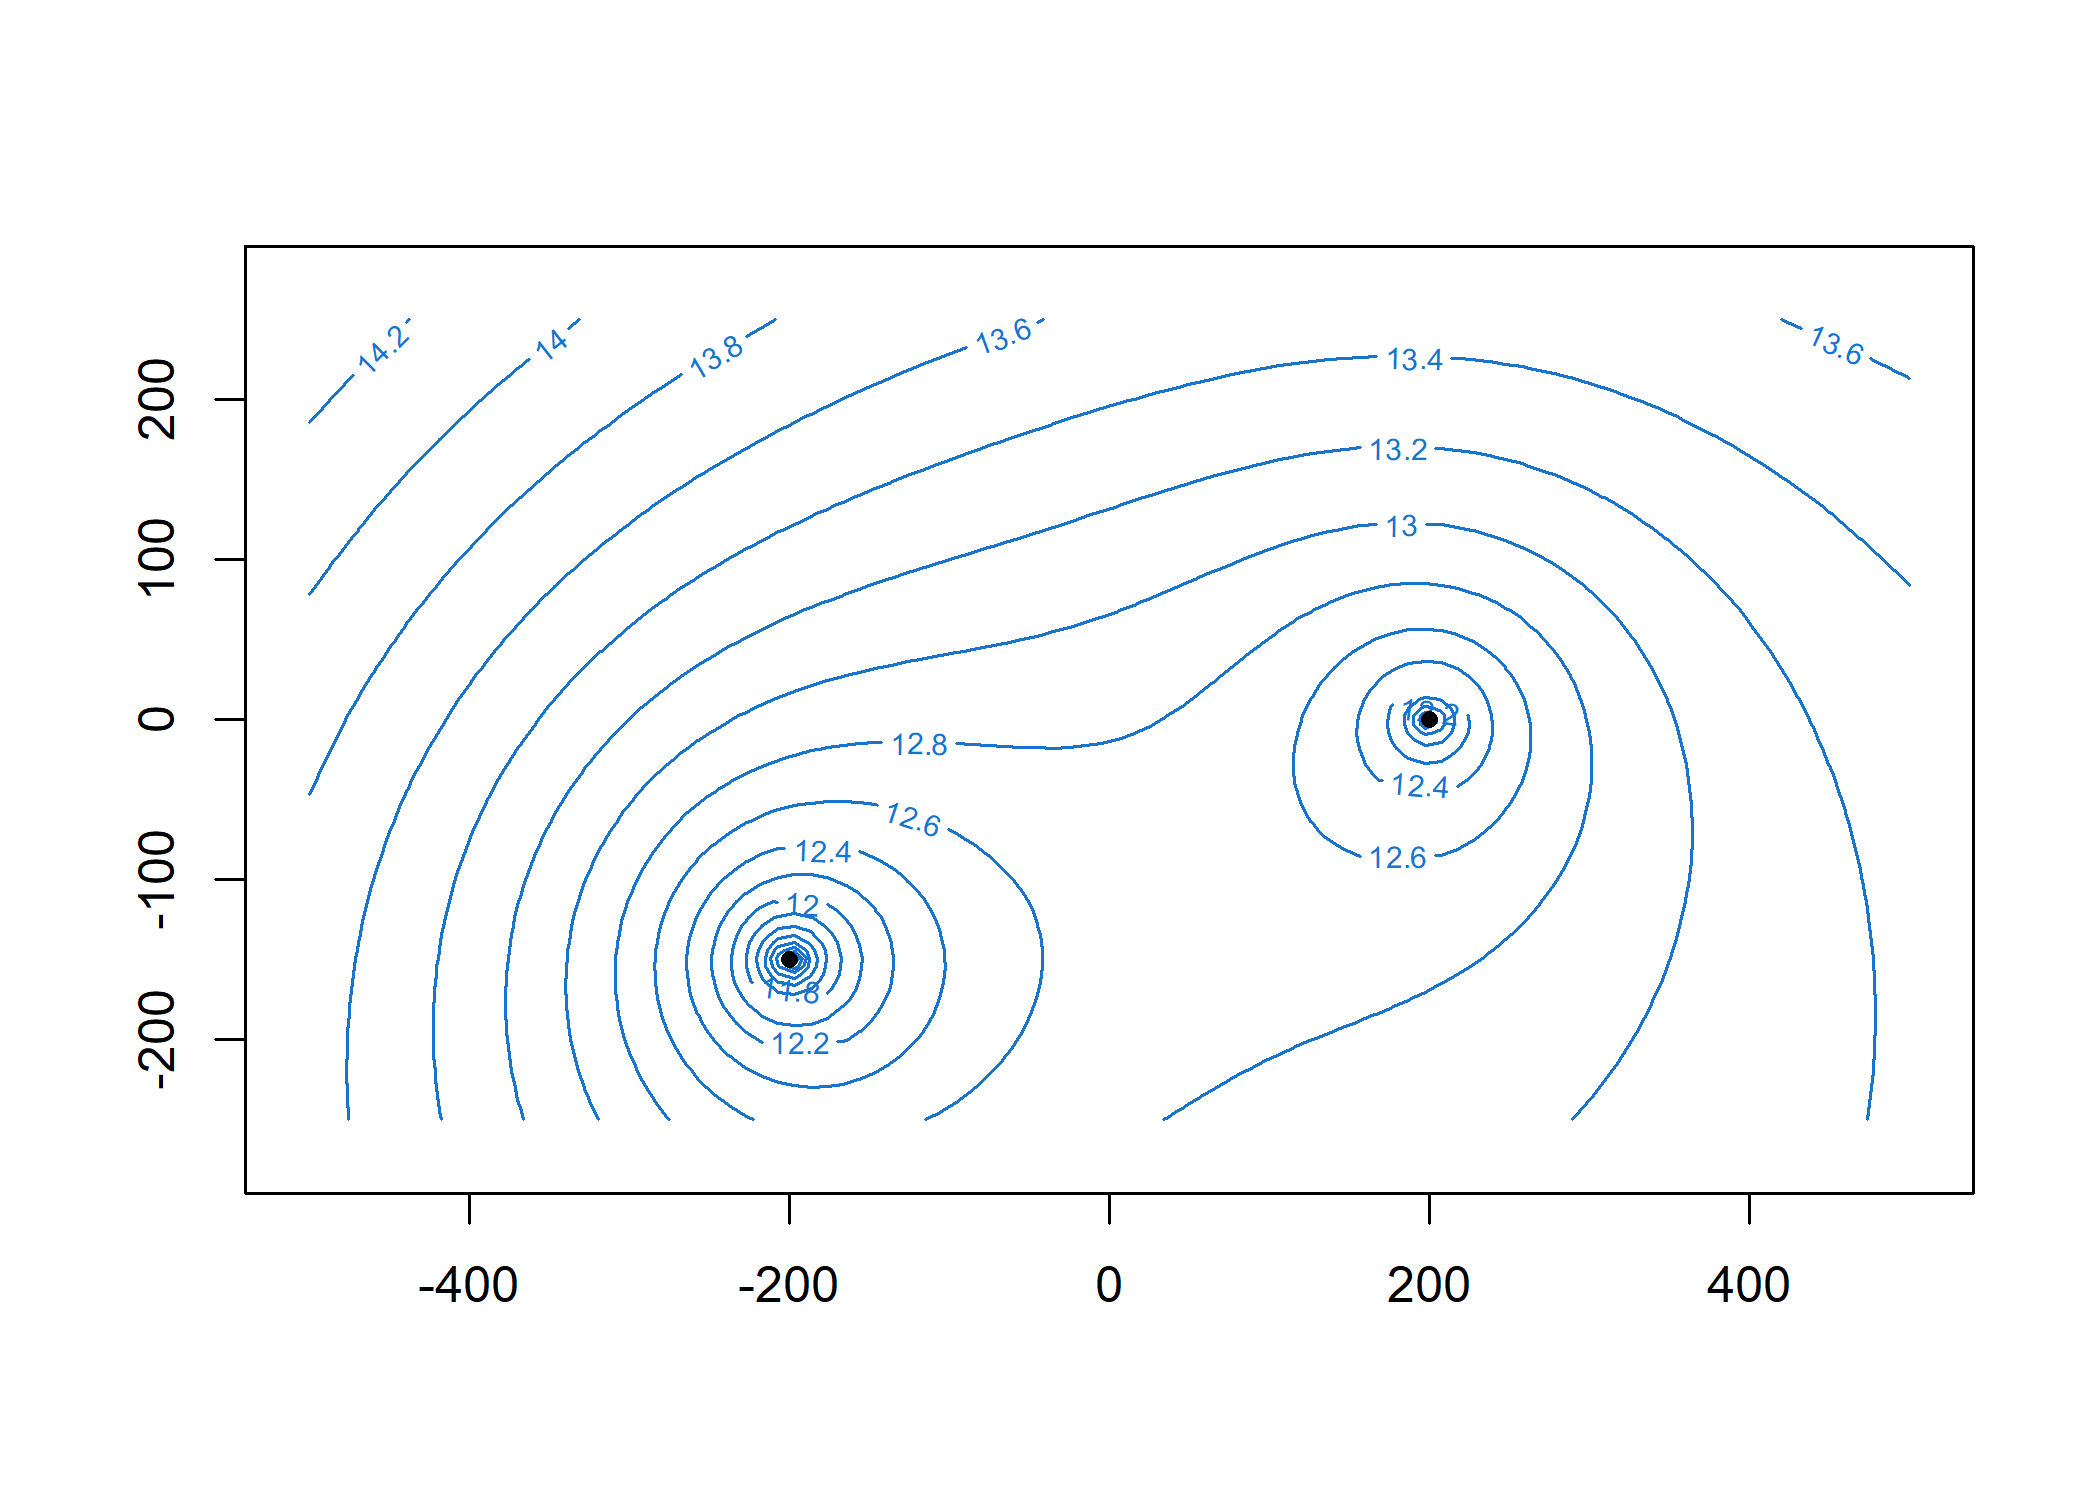
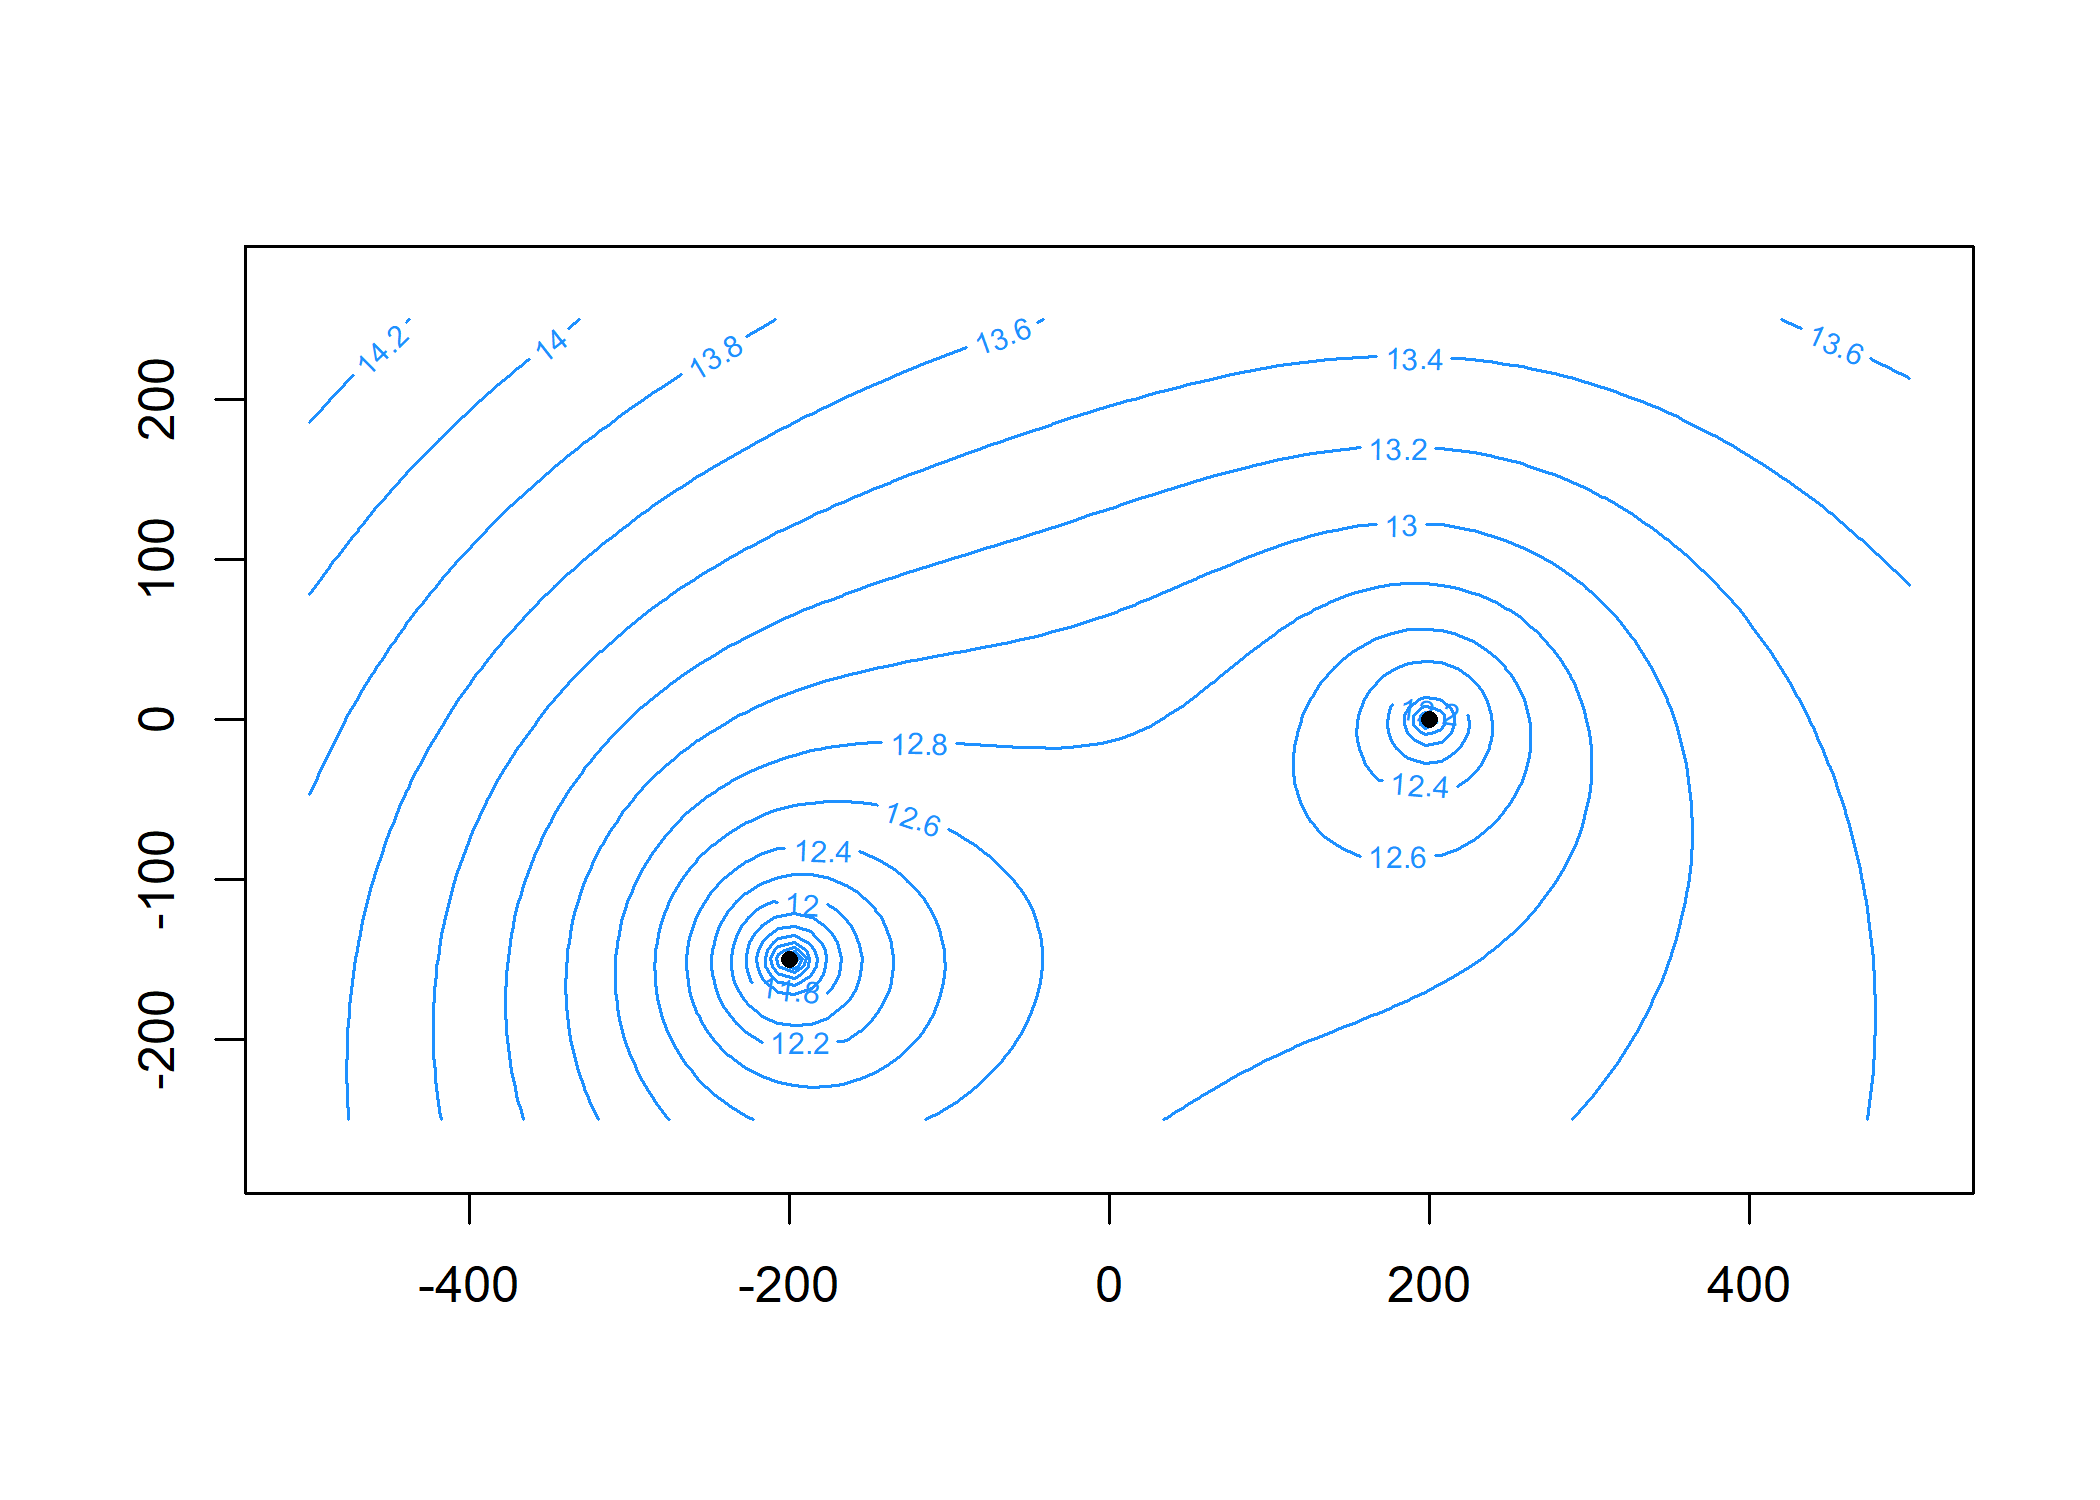
deleted line-doublets in this branch; docs + defaults for capzone

diff --git a/README.md b/README.md
@@ -12,7 +12,7 @@ elements.
 
 ## Installation
 
-You can install the development version of raem from
+You can install the development version of `raem` from
 [GitHub](https://github.com/) with:
 
 ``` r
@@ -58,6 +58,9 @@ this model:
 ``` r
 heads(m, x = c(-200, 100), y = 200)
 #> [1] 13.64573 13.33314
+```
+
+``` r
 
 discharge(m, c(-200, 100), 200, z = top) # [L^2 / T]
 #>              Qx         Qy Qz
@@ -76,7 +79,7 @@ yg = seq(-250, 250, length = 100)
 Now plot:
 
 ``` r
-contours(m, xg, yg, 'heads', col = 'dodgerblue3', nlevels = 20)
+contours(m, xg, yg, 'heads', col = 'dodgerblue', nlevels = 20)
 plot(m, add = TRUE)
 ```
 
@@ -87,7 +90,7 @@ year for 5 years and add to plot:
 
 ``` r
 paths = tracelines(m, x0 = seq(-450, 450, 50), y0 = 200, z0 = top, times = seq(0, 5*365, 365/20))
-plot(paths, add = TRUE, col = 'orange3')
+plot(paths, add = TRUE, col = 'orange')
 ```
 
 <img src="man/figures/README-plot-traces-1.png" width="100%" />
